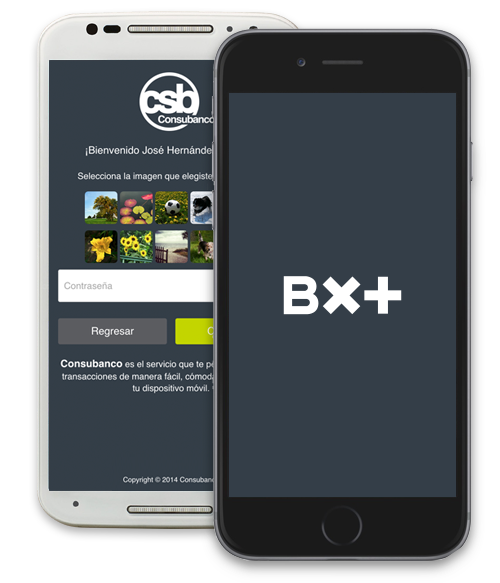
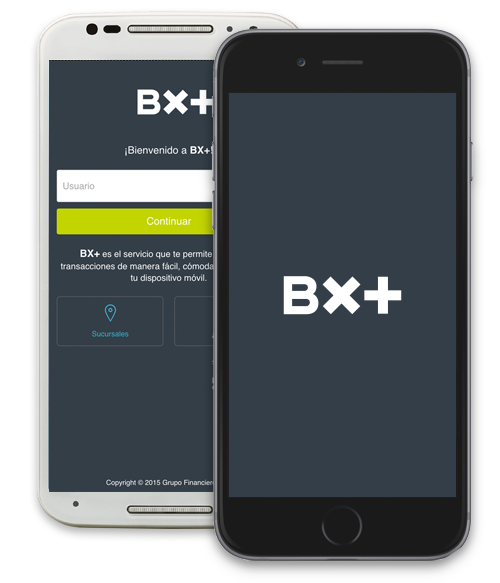
login image detail and texts

Changed region(s): [[0.09, 0.1235, 0.45, 0.6792], [0.21, 0.8027, 0.42, 0.8336]]

diff --git a/SPA/app/views/partials/admin/contract.html b/SPA/app/views/partials/admin/contract.html
@@ -6,38 +6,38 @@
           <a class="glyphicon glyphicon-download" href="javascript:void(0);"></a>
         </div>
 
-      <p>Clausulado del contrato de presentaci&oacute;n de servicios de Banca Electr&oacute;nica celebrado por Banco Nacional de M&eacute;xico, S.A. Integrante de Grupo Financiero Consubanco, en lo sucesivo &quot;Consubanco&quot; y la persona identificada en solicitud &uacute;nica Consubanco a quien se le denomina como el &quot;Cliente&quot;</p>
+      <p>Clausulado del contrato de presentaci&oacute;n de servicios de Banca Electr&oacute;nica celebrado por Banco Nacional de M&eacute;xico, S.A. Integrante de Grupo Financiero BX+, en lo sucesivo &quot;BX+&quot; y la persona identificada en solicitud &uacute;nica BX+ a quien se le denomina como el &quot;Cliente&quot;</p>
 
         <h1>Clausulas</h1>
 
         <p>PRIMERA. DEFINICIONES. Salvo que se indique lo contrario en el presente Convenio, las Partes est&aacute;n de acuerdo en que los siguientes t&eacute;rminos (cuando se usen con may&uacute;scula inicial) tendr&aacute;n los significados que a continuaci&oacute;n se establecen:</p>
 
-        <p><strong>"Audiom&aacute;tico":</strong> Significa el Sistema Electr&oacute;nico, propiedad de Consubanco, el cual es accesible por el Cliente a trav&eacute;s del uso del tel&eacute;fono como medio de comunicaci&oacute;n, cuya utilizaci&oacute;n le permite convenir, mediante Instrucciones y eligiendo las opciones habilitadas en el Sistema Electr&oacute;nico, los Servicios Bancarios, utilizando Firmas Electr&oacute;nicas como medio de expresi&oacute;n de la voluntad del Cliente.</p>
+        <p><strong>"Audiom&aacute;tico":</strong> Significa el Sistema Electr&oacute;nico, propiedad de BX+, el cual es accesible por el Cliente a trav&eacute;s del uso del tel&eacute;fono como medio de comunicaci&oacute;n, cuya utilizaci&oacute;n le permite convenir, mediante Instrucciones y eligiendo las opciones habilitadas en el Sistema Electr&oacute;nico, los Servicios Bancarios, utilizando Firmas Electr&oacute;nicas como medio de expresi&oacute;n de la voluntad del Cliente.</p>
 
         <p><strong>"Autenticaci&oacute;n":</strong> significa el conjunto de t&eacute;cnicas y procedimientos utilizados para verificar la identidad de un Cliente, sea, Usuario(s) o Apoderado Legal y expresa su consentimiento para realizar operaciones o recibir instrucciones a trav&eacute;s de los Medios de Comunicaci&oacute;n.</p>
 
         <p><strong>"Baja":</strong> significa cualquier Instrucci&oacute;n realizada electr&oacute;nicamente por un Usuario o Apoderado Legal para cancelar o revocar un Alta o cualquier otra operaci&oacute;n denominada como tal en cualquiera de los Medios de Comunicaci&oacute;n.</p>
 
-        <p><strong>"BancaNet":</strong> Significa el Sistema Electr&oacute;nico, propiedad de Consubanco, el cual es accesible por el Cliente a trav&eacute;s del uso de Internet o Intranet como medio de comunicaci&oacute;n, cuya utilizaci&oacute;n le permite convenir mediante Instrucciones y eligiendo las opciones habilitadas en el Sistema Electr&oacute;nico, los Servicios Bancarios, utilizando Firmas Electr&oacute;nicas como medio de expresi&oacute;n de la voluntad del Cliente.</p>
+        <p><strong>"BancaNet":</strong> Significa el Sistema Electr&oacute;nico, propiedad de BX+, el cual es accesible por el Cliente a trav&eacute;s del uso de Internet o Intranet como medio de comunicaci&oacute;n, cuya utilizaci&oacute;n le permite convenir mediante Instrucciones y eligiendo las opciones habilitadas en el Sistema Electr&oacute;nico, los Servicios Bancarios, utilizando Firmas Electr&oacute;nicas como medio de expresi&oacute;n de la voluntad del Cliente.</p>
 
-        <p><strong>"Banca M&oacute;vil/ BancaNet M&oacute;vil/ Consubanco M&oacute;vil":</strong> significa indistintamente el servicio de acceso a los Servicios a trav&eacute;s de un dispositivo celular, inal&aacute;mbrico o de radiofrecuencia cuyo n&uacute;mero de l&iacute;nea se encuentre asociado al Servicio.</p>
+        <p><strong>"Banca M&oacute;vil/ BancaNet M&oacute;vil/ BX+ M&oacute;vil":</strong> significa indistintamente el servicio de acceso a los Servicios a trav&eacute;s de un dispositivo celular, inal&aacute;mbrico o de radiofrecuencia cuyo n&uacute;mero de l&iacute;nea se encuentre asociado al Servicio.</p>
        
 
-        <p><strong>"Banca Host to Host":</strong> Servicio de Banca Electr&oacute;nica mediante el cual se realiza a trav&eacute;s de la conexi&oacute;n del equipo de c&oacute;mputo del Cliente con un equipo de c&oacute;mputo de Consubanco, a trav&eacute;s de un enlace de telecomunicaci&oacute;n para el intercambio de archivos que contendr&aacute;n las instrucciones del Cliente para realizar operaciones monetarias, consultas de saldos, entre otras.</p>
+        <p><strong>"Banca Host to Host":</strong> Servicio de Banca Electr&oacute;nica mediante el cual se realiza a trav&eacute;s de la conexi&oacute;n del equipo de c&oacute;mputo del Cliente con un equipo de c&oacute;mputo de BX+, a trav&eacute;s de un enlace de telecomunicaci&oacute;n para el intercambio de archivos que contendr&aacute;n las instrucciones del Cliente para realizar operaciones monetarias, consultas de saldos, entre otras.</p>
 
-        <p><strong>"Banca Telef&oacute;nica Audio Respuesta":</strong> servicio de Banca Electr&oacute;nica mediante el cual Consubanco recibe instrucciones del Cliente o Usuario a trav&eacute;s de un sistema telef&oacute;nico, e interact&uacute;a con el propio Cliente o Usuario mediante grabaciones de voz y tonos o mecanismos de reconocimiento de voz, incluyendo los sistemas de respuesta interactiva de voz.</p>
+        <p><strong>"Banca Telef&oacute;nica Audio Respuesta":</strong> servicio de Banca Electr&oacute;nica mediante el cual BX+ recibe instrucciones del Cliente o Usuario a trav&eacute;s de un sistema telef&oacute;nico, e interact&uacute;a con el propio Cliente o Usuario mediante grabaciones de voz y tonos o mecanismos de reconocimiento de voz, incluyendo los sistemas de respuesta interactiva de voz.</p>
 
-        <p><strong>"Banca telef&oacute;nica voz a voz":</strong> Significa el servicio de Banca Electr&oacute;nica en el cual el Cliente o Usuario instruye v&iacute;a telef&oacute;nica a un ejecutivo de Consubanco para que en su nombre realice sus operaciones y/o consultas.</p>
+        <p><strong>"Banca telef&oacute;nica voz a voz":</strong> Significa el servicio de Banca Electr&oacute;nica en el cual el Cliente o Usuario instruye v&iacute;a telef&oacute;nica a un ejecutivo de BX+ para que en su nombre realice sus operaciones y/o consultas.</p>
 
-        <p><strong>"Bloqueo de Factores de Autenticaci&oacute;n":</strong> Significa el proceso por el cual Consubanco inhabilita temporalmente el uso de un Factor de Autenticaci&oacute;n.</p>
+        <p><strong>"Bloqueo de Factores de Autenticaci&oacute;n":</strong> Significa el proceso por el cual BX+ inhabilita temporalmente el uso de un Factor de Autenticaci&oacute;n.</p>
 
-        <p><strong>"Bit&aacute;cora":</strong> Significa el registro o asiento efectuado en forma electr&oacute;nica de todas y cada una de las operaciones relativas a los Servicios Bancarios convenidos y ejecutados entre el Cliente y Consubanco a trav&eacute;s de los Sistemas Electr&oacute;nicos, mismos que permiten conocer en forma enunciativa mas no limitativa, el o los N&uacute;meros de Autorizaci&oacute;n, fechas, montos, tasas, precios, n&uacute;meros de cuenta, etc., respecto a cada uno de los Servicios Bancarios convenidos.</p>
+        <p><strong>"Bit&aacute;cora":</strong> Significa el registro o asiento efectuado en forma electr&oacute;nica de todas y cada una de las operaciones relativas a los Servicios Bancarios convenidos y ejecutados entre el Cliente y BX+ a trav&eacute;s de los Sistemas Electr&oacute;nicos, mismos que permiten conocer en forma enunciativa mas no limitativa, el o los N&uacute;meros de Autorizaci&oacute;n, fechas, montos, tasas, precios, n&uacute;meros de cuenta, etc., respecto a cada uno de los Servicios Bancarios convenidos.</p>
 
-        <p><strong>"Cliente":</strong> significa la persona f&iacute;sica que contando con representaci&oacute;n legal de la entidad jur&iacute;dica contratante de ser el caso, ha formalizado y expresado su consentimiento en nombre de su representada en cualquiera de las formas establecidas en ley, suscribiendo la Solicitud Consubanco para la aceptaci&oacute;n del clausulado del presente contrato, a fin de poder utilizar los Medios de Comunicaci&oacute;n para realizar consultas, operaciones monetarias y cualquier otro tipo de transacci&oacute;n bancaria, financiera y/o de servicio con Consubanco.</p>
+        <p><strong>"Cliente":</strong> significa la persona f&iacute;sica que contando con representaci&oacute;n legal de la entidad jur&iacute;dica contratante de ser el caso, ha formalizado y expresado su consentimiento en nombre de su representada en cualquiera de las formas establecidas en ley, suscribiendo la Solicitud BX+ para la aceptaci&oacute;n del clausulado del presente contrato, a fin de poder utilizar los Medios de Comunicaci&oacute;n para realizar consultas, operaciones monetarias y cualquier otro tipo de transacci&oacute;n bancaria, financiera y/o de servicio con BX+.</p>
 
-        <p><strong>"Cajeros Permanentes":</strong> Significa el Sistema Electr&oacute;nico, propiedad de Consubanco o de terceros, el cual es accesible por el Cliente a trav&eacute;s del uso de terminales intercomunicadas electr&oacute;nicamente, ubicadas dentro o fuera del territorio nacional, y de tarjetas pl&aacute;sticas con caracteres magnetizables emitidas por Consubanco, cuya utilizaci&oacute;n le permite convenir, mediante Instrucciones y eligiendo las opciones habilitadas en el Sistema Electr&oacute;nico, los Servicios Bancarios, utilizando Firmas Electr&oacute;nicas, como medio de expresi&oacute;n de la voluntad del Cliente.</p>
+        <p><strong>"Cajeros Permanentes":</strong> Significa el Sistema Electr&oacute;nico, propiedad de BX+ o de terceros, el cual es accesible por el Cliente a trav&eacute;s del uso de terminales intercomunicadas electr&oacute;nicamente, ubicadas dentro o fuera del territorio nacional, y de tarjetas pl&aacute;sticas con caracteres magnetizables emitidas por BX+, cuya utilizaci&oacute;n le permite convenir, mediante Instrucciones y eligiendo las opciones habilitadas en el Sistema Electr&oacute;nico, los Servicios Bancarios, utilizando Firmas Electr&oacute;nicas, como medio de expresi&oacute;n de la voluntad del Cliente.</p>
 
-        <p><strong>"Cargos Programados":</strong> significan las Instrucciones por escrito o a trav&eacute;s de los Medios de Comunicaci&oacute;n autorizados que el Cliente instruye para que Consubanco le cargue a una o mas de sus Cuenta ciertas sumas de dinero con la periodicidad que asimismo especifique y las abone a la Cuenta de Abono del Cliente beneficiario de las mismas.</p>
+        <p><strong>"Cargos Programados":</strong> significan las Instrucciones por escrito o a trav&eacute;s de los Medios de Comunicaci&oacute;n autorizados que el Cliente instruye para que BX+ le cargue a una o mas de sus Cuenta ciertas sumas de dinero con la periodicidad que asimismo especifique y las abone a la Cuenta de Abono del Cliente beneficiario de las mismas.</p>
 
-        <p><strong>"Certificado Digital":</strong> significa el registro electr&oacute;nico que genera Consubanco u otro tercero designado por &eacute;ste a su sola discreci&oacute;n o designado por disposici&oacute;n legal, mediante el cual se establece la autenticaci&oacute;n de los Mensajes de Datos comunicados, e identifica a las partes en la utilizaci&oacute;n de medios electr&oacute;nicos, &oacute;pticos o de cualquier otra tecnolog&iacute;a utilizada en el proceso de comunicaci&oacute;n, el cual deriva de la emisi&oacute;n de una clave p&uacute;blica.</p>
+        <p><strong>"Certificado Digital":</strong> significa el registro electr&oacute;nico que genera BX+ u otro tercero designado por &eacute;ste a su sola discreci&oacute;n o designado por disposici&oacute;n legal, mediante el cual se establece la autenticaci&oacute;n de los Mensajes de Datos comunicados, e identifica a las partes en la utilizaci&oacute;n de medios electr&oacute;nicos, &oacute;pticos o de cualquier otra tecnolog&iacute;a utilizada en el proceso de comunicaci&oacute;n, el cual deriva de la emisi&oacute;n de una clave p&uacute;blica.</p>
     </div>

diff --git a/SPA/app/styles/modules/_login.scss b/SPA/app/styles/modules/_login.scss
@@ -27,7 +27,7 @@
 	 			position: relative;
 
 				h2 {
-					@include text-shadow(#000);
+					//@include text-shadow(#000);
 					text-transform: uppercase;
 					margin-bottom: 16px;
 					font-size: 2em;
@@ -36,9 +36,16 @@
 	 	}
 	}
 }
+.pull-left{
+	h2, p, strong{
+		color:$green;
+		text-shadow:none;
+	}
+}
 .welcome {
+	h2, p{color:$green; box-shadow:none;}
 	p {
-		@include text-shadow(#000);
+		//@include text-shadow(#000);
 		font-size: 1.9em;
 		strong:first-child {
 			display: block;

diff --git a/SPA/app/views/login.html b/SPA/app/views/login.html
@@ -13,7 +13,7 @@
                     -->
                     <div>
                         <div class="welcome">
-                            <h2>¡Bienvenido a Consubanco!</h2>
+                            <h2>¡Bienvenido a BX+!</h2>
                             <p>
                                 <strong>Un gran beneficio, un gran Banco.</strong>
                                 <strong>¡Desc&uacute;brelo!</strong>

diff --git a/SPA/app/views/partials/layout/main-header.html b/SPA/app/views/partials/layout/main-header.html
@@ -3,7 +3,7 @@
     <div class="wrapper">
         <!-- =============================================================== -->
 
-        <h1 class="logo"><a href="/">Consubanco</a></h1>
+        <h1 class="logo"><a href="/">BX+</a></h1>
 
         <!-- =============================================================== -->
         <nav class="nav">

diff --git a/SPA/app/views/partials/layout/main-footer.html b/SPA/app/views/partials/layout/main-footer.html
@@ -1,6 +1,6 @@
 
     <div class="wrapper">
-        <p class="copy">Consubanco &copy;2015 | Ayuda</p>
+        <p class="copy">BX+ &copy;2015 | Ayuda</p>
         <a href="#" class="legal">T&eacute;rminos, Condiciones de Uso y Privacidad</a>
     </div>
 
